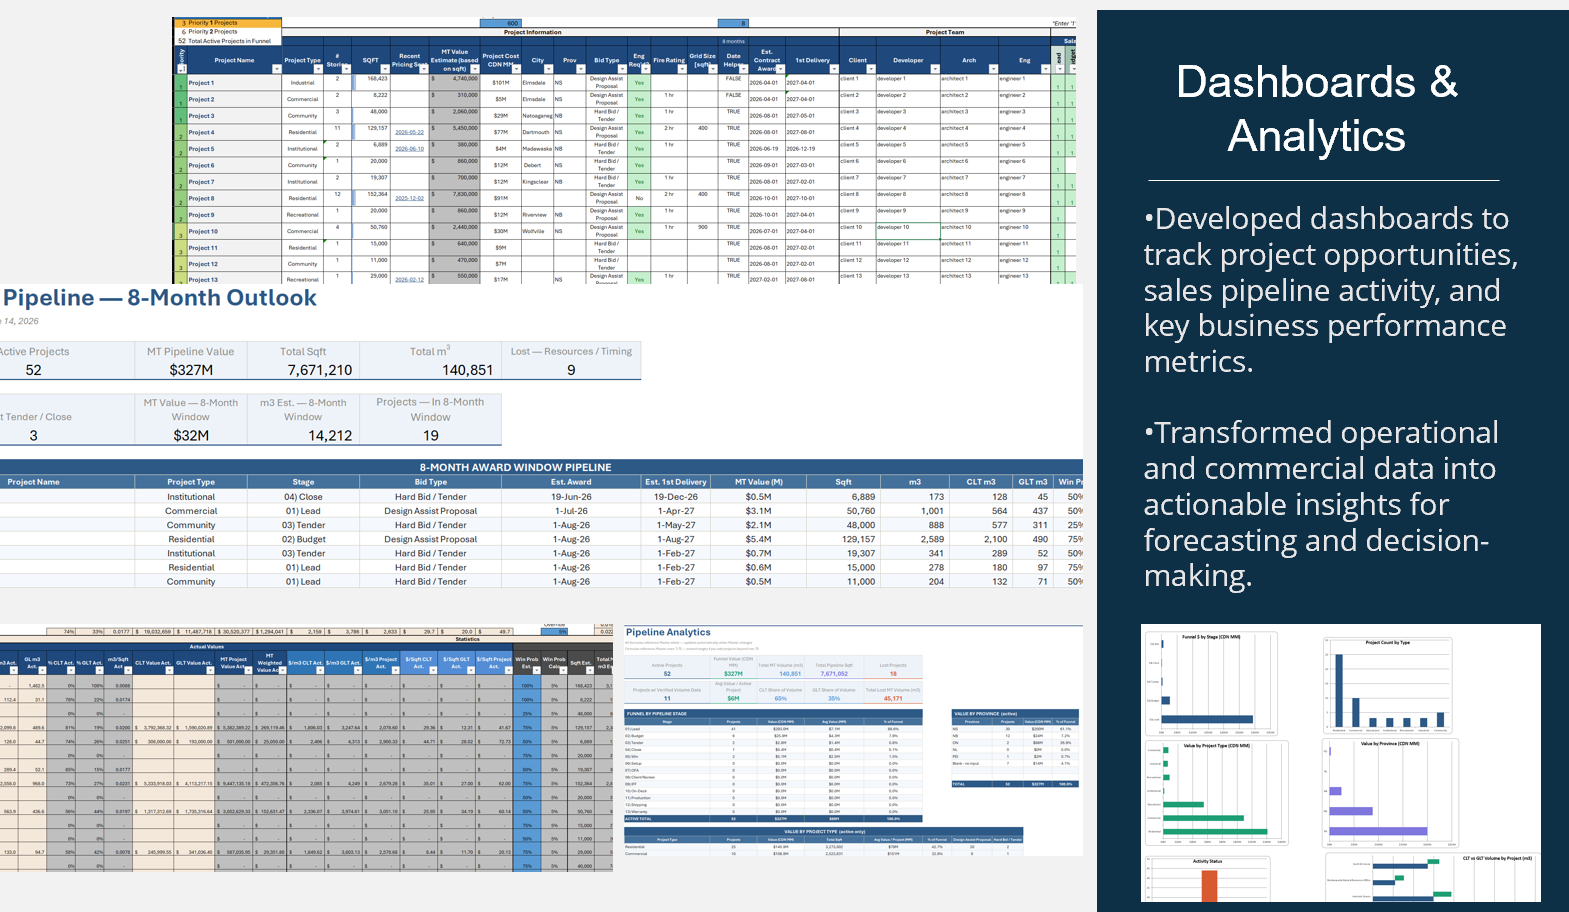
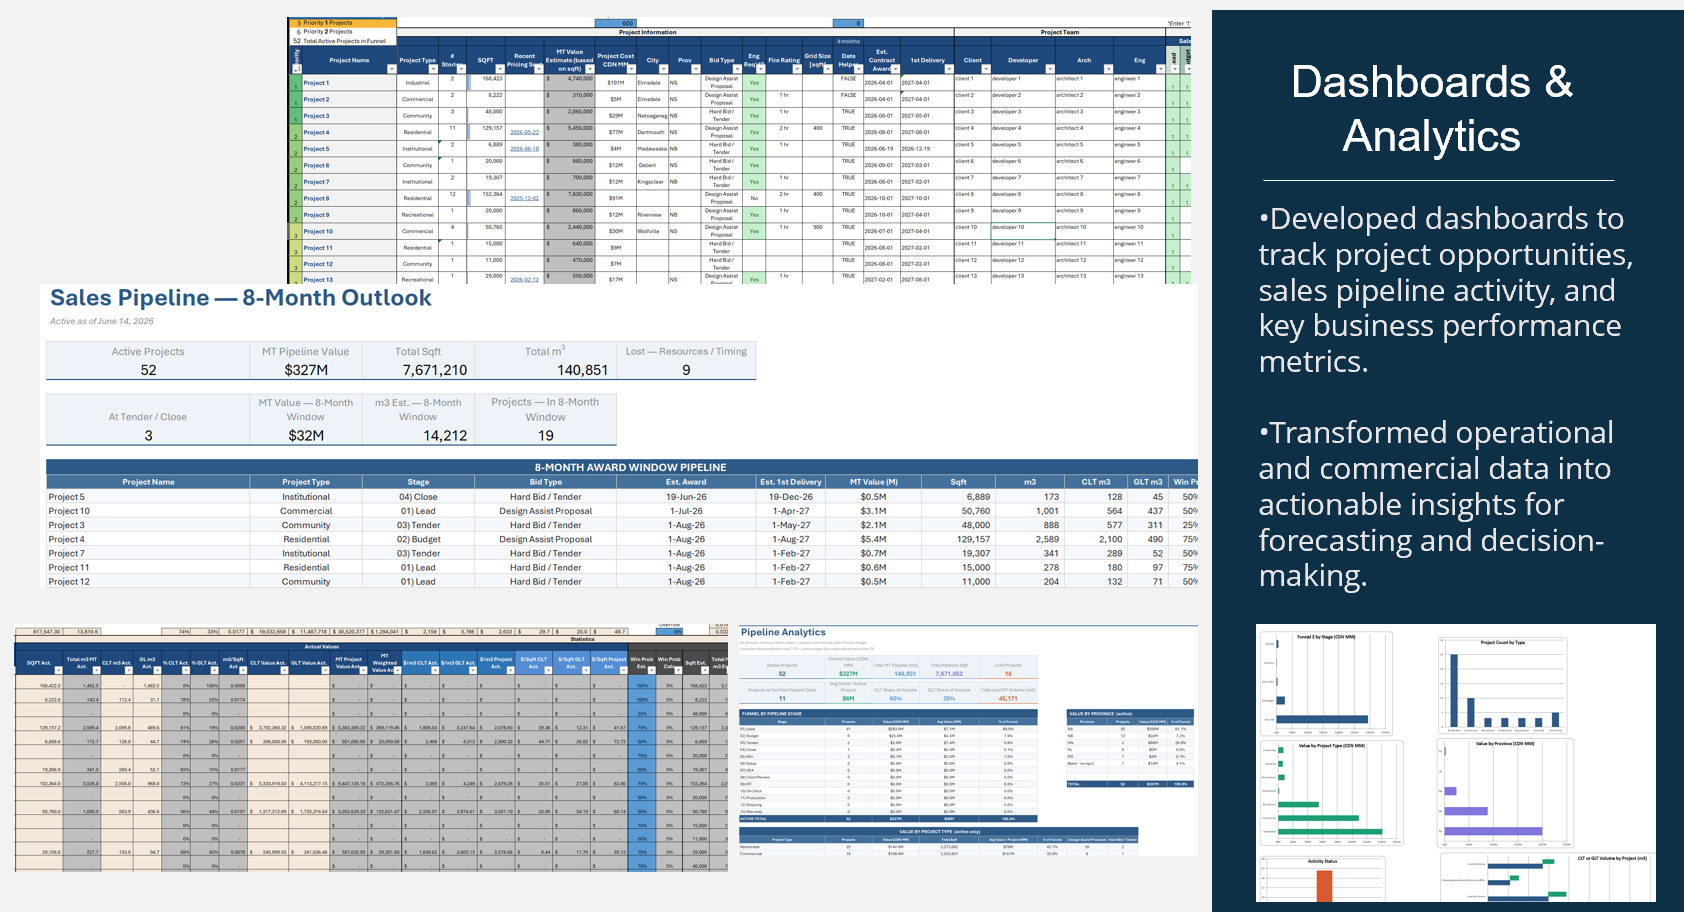
Add files via upload

Changed region(s): [[0.0, 0.0, 0.9681, 1.0], [0.7495, 0.0614, 0.9369, 0.1842], [0.8744, 0.8904, 0.9681, 1.0]]

diff --git a/index.html b/index.html
@@ -251,7 +251,7 @@
     justify-content: center;
   }
 
-  .tool-img.ratio-wide { aspect-ratio: 21/9; }
+  .tool-img.ratio-wide { aspect-ratio: 3/2; }
   .tool-img.ratio-std { aspect-ratio: 16/9; }
   .tool-img.ratio-tall { aspect-ratio: 4/3; }
 
@@ -312,7 +312,7 @@
 
   .project-img img.zoom-out { object-fit: contain; background: var(--surface2); }
   .project-img img.zoom-out-slight { object-fit: cover; object-position: center center; transform: scale(0.88); transform-origin: center; }
-  .project-img img.zoom-out-more { object-fit: cover; object-position: center center; transform: scale(0.78); transform-origin: center; }
+  .project-img img.zoom-out-more { object-fit: cover; object-position: center center; transform: scale(0.55); transform-origin: center; }
 
   .project-img-placeholder {
     font-size: 11px;